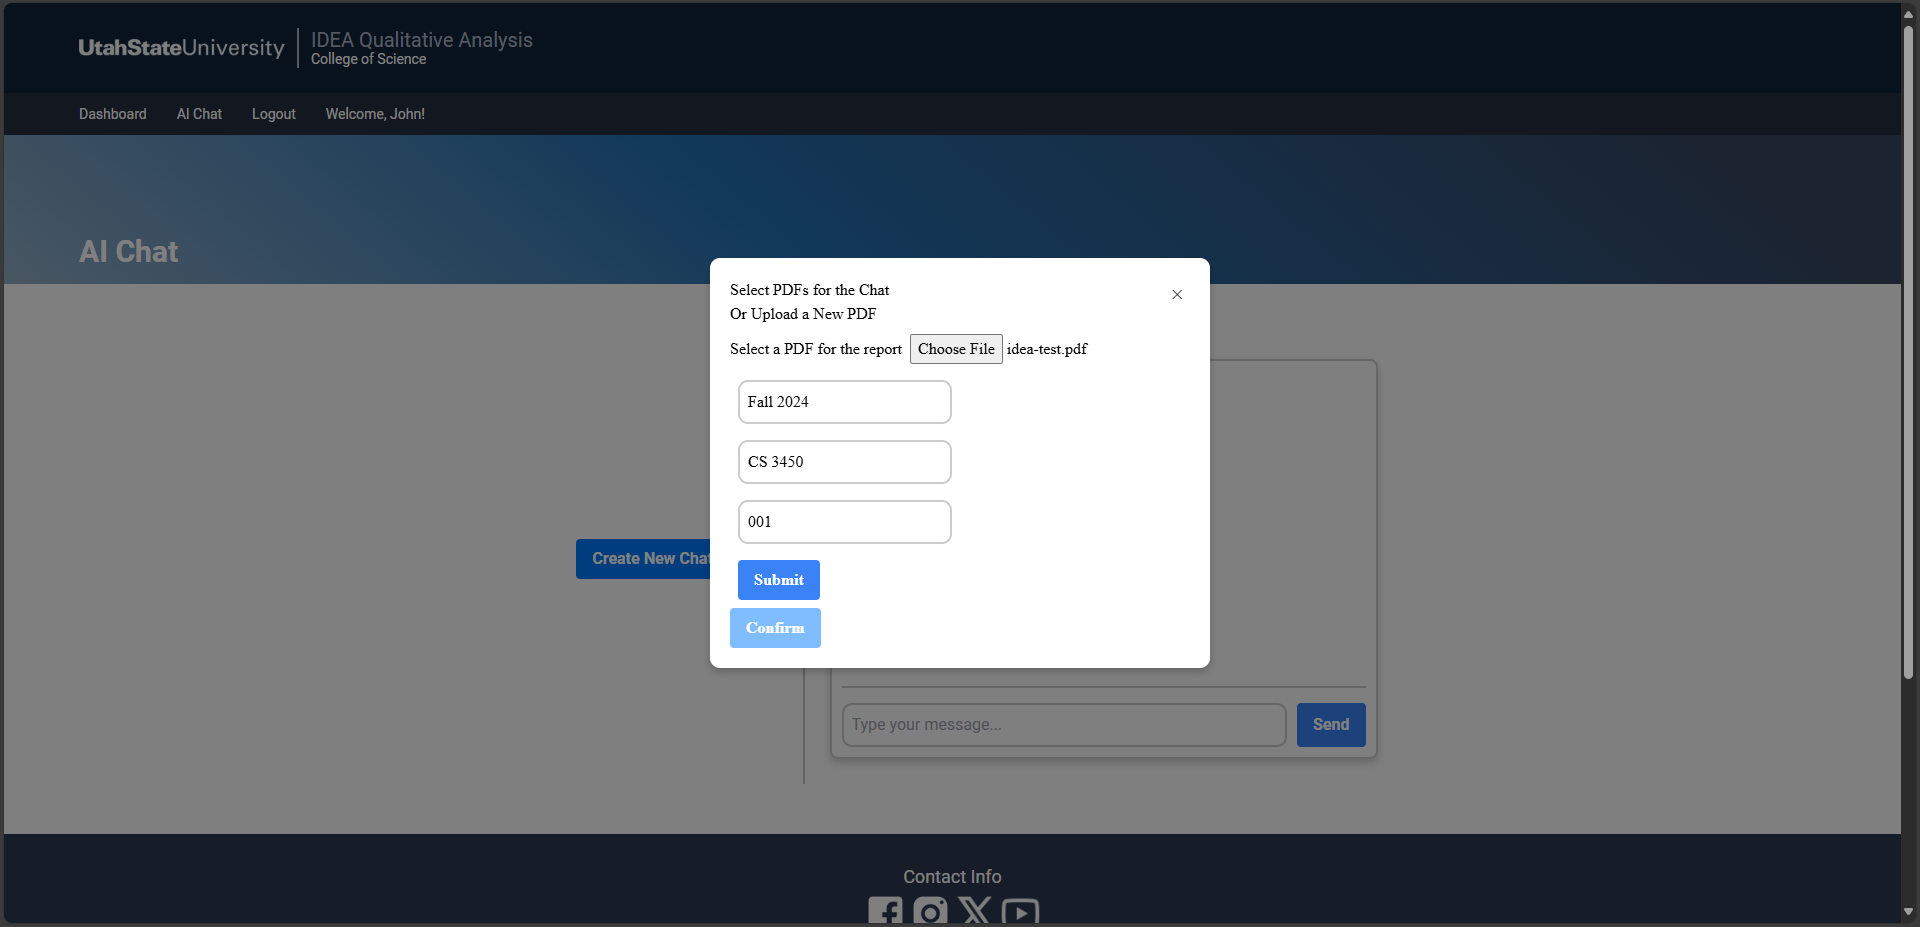
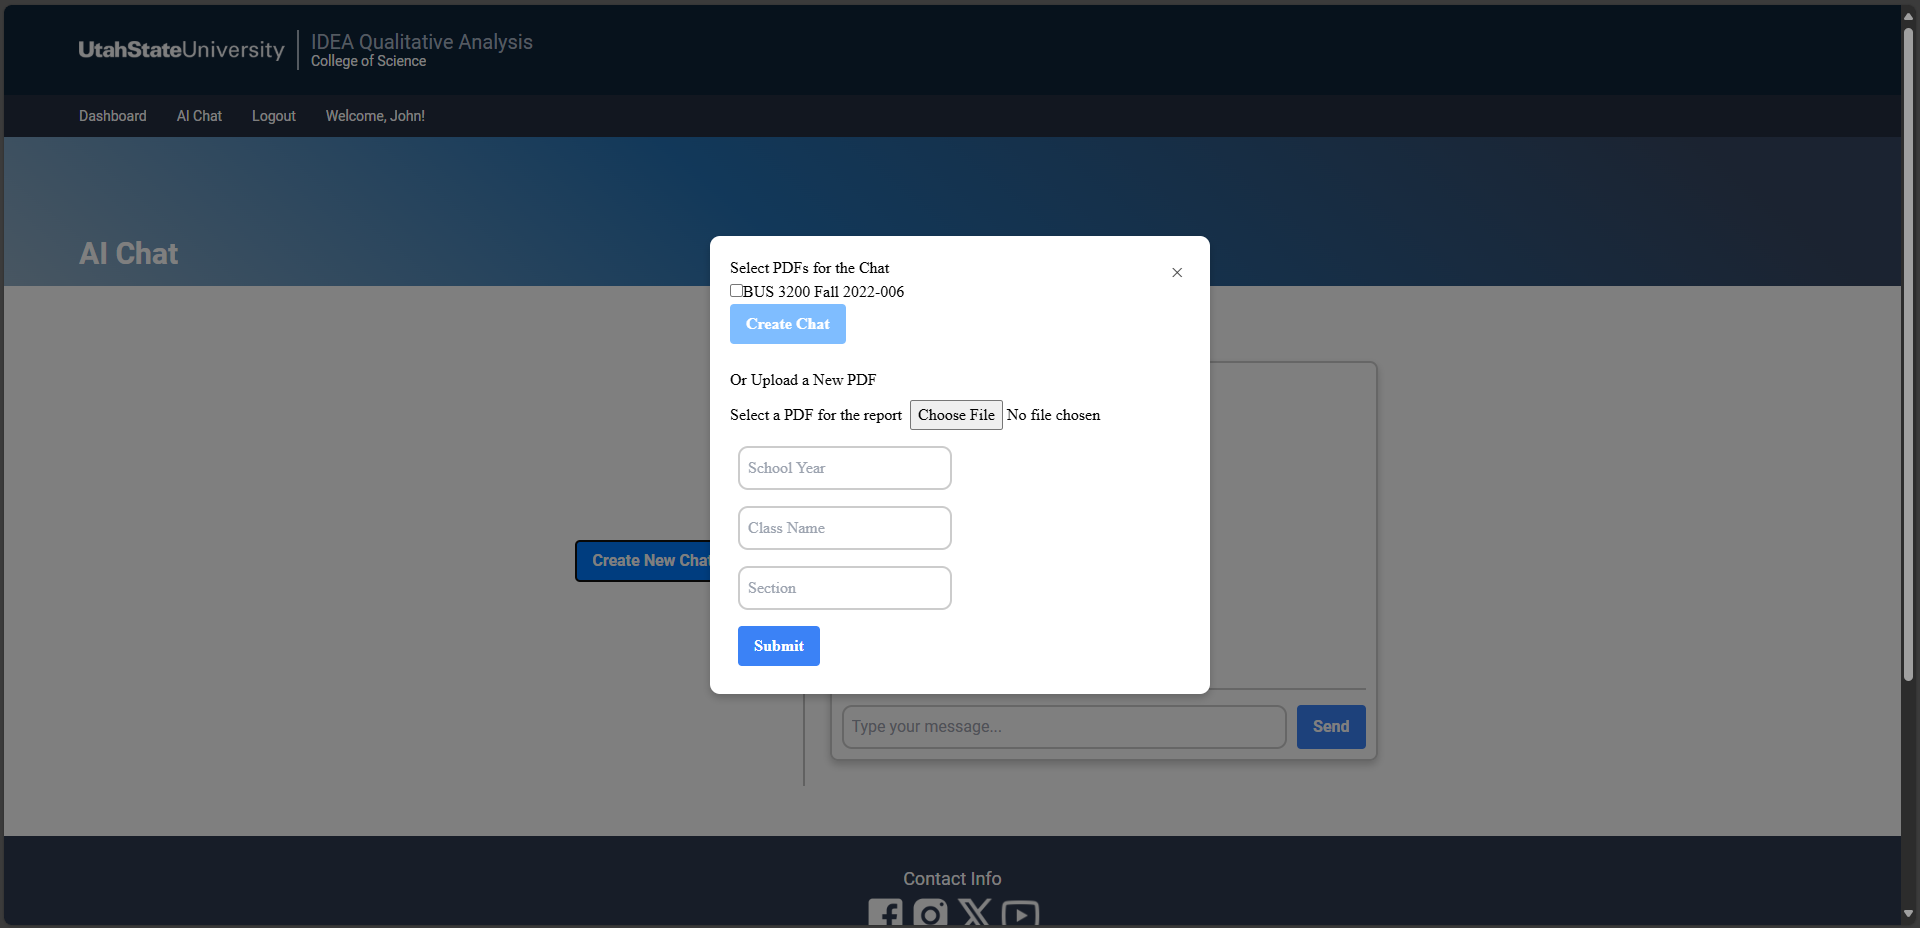
User manual finished

diff --git a/documentation/User Manual/User Manual.md b/documentation/User Manual/User Manual.md
@@ -14,7 +14,6 @@
         - [Creating a New Chat](#creating-a-new-chat)
     - [Report Page](#report-page)
 - [Example Workflow](#example-workflow)
-- [Common Issues](#common-issues)
 - [Frequently Asked Questions (FAQs)](#frequently-asked-questions-faqs)
 
 
@@ -58,7 +57,7 @@ The navigation bar is present on each page of the IDEA Ideas website. The naviga
 ### Dashboard (`/dashboard`)
 The `Dashboard` page is your personal home page for the IDEA Ideas website, and the page can be accessed by clicking on the `Dashboard` link in the navigation bar. From the `Dashboard` page, you can upload PDFs of IDEA course evaluations and see links to previously generated IDEA course survey reports.
 
-![Dashboard](images/Dashboard.png)
+![Dashboard](images/DashboardWithReport.png)
 
 #### Uploading a PDF from the Dashboard
 From the `Dashboard` page, you can upload a PDF for your IDEA survey by clicking on the **Generate New Report** button. After clicking on the button, you will be presented with a popup box that will ask you to upload a PDF and enter the PDF details (school year, class name, class section). After uploading the PDF and entering the details, click on the **Submit** button.
@@ -66,7 +65,13 @@ From the `Dashboard` page, you can upload a PDF for your IDEA survey by clicking
 ![PDF Upload](images/PDFUpload.png)
 
 #### Accessing a Report
+To access a report for a PDF you have uploaded, go to your `Dashboard` page (through the link on the navigation bar). Once you are on the your dashboard, you will see links to all the reports available to you. Click on the link for the report you would like, and it will direct you to the report page.
 
+On the report page, there are three sections to view: a Summary section, an Attribute Breakdown section, and a Comments section.
+
+The Summary section has the AI's overall summary of the written feedback from the uploaded PDF. The Attribute Breakdown section has our AI model's anaylsis of the overall sentiment of the written feedback, split up in a pie chart. The Comments section has each individual comment from the uploaded PDF, and the comments are color coded based on the sentiment of the comment.
+
+![Report Page](images/ExampleReportPage.png)
 
 ### AI Chat (`/chat`)
 The `AI Chat` page is the main page from which you can consult with your own personal AI chatbot about a specific course evaluation PDF. When you go to the `AI Chat` page (by clicking on the link in the navigation bar), you will see all (if any) previous chats that you have had.
@@ -76,11 +81,13 @@ To select an existing chat, click on the chat name. To delete an existing chat, 
 ![AI Chat](images/AIChat.png)
 
 #### Creating a New Chat
-To create a new chat, click on the **Create New Chat** button. You will be presented with a popup box that will ask you to select or upload a PDF to use for the new chat. After selecting the correct PDF, click on the **Confirm** button.
+To create a new chat, click on the **Create New Chat** button. You will be presented with a popup box that will ask you to select a PDF to use for the new chat. After selecting the correct PDF, click on the **Create Chat** button. 
+
+If you are uploading a new PDF from the menu for a new chat, upload your PDF, fill out the class details, then click on the **Submit** button.
 
 ![PDF Upload Chat](images/PDFUploadChat.png)
 
-After you have selected or created your chat, you can ask the AI chatbot questions about the selected course evaluation PDF by entering your message into the box that says *Type your message*. After typing out your message, click on the **Send** button and wait for the AI's response!
+After you have selected or created your chat, you can ask the AI chatbot questions about the selected course evaluation PDF by clicking on the name of the chat you want and entering your message into the box that says *Type your message*. After typing out your message, click on the **Send** button and wait for the AI's response!
 
 ![AI Chat Example](images/ChatExample.png)
 
@@ -97,7 +104,6 @@ I am a USU faculty member who would like to get a quick summary of my students' 
 
 (Finish workflow example)
 
-## Common Issues
-- After uploading a PDF to your Dashboard, it make take some time for the PDF to be processed and the report generated. Please be patient and wait on the Dashboard page until the report is generated.
-
 ## Frequently Asked Questions (FAQs)
+- Who can access my PDFs and Reports?
+    - Only the user who uploaded the PDF can view both the PDF and the resulting report.
